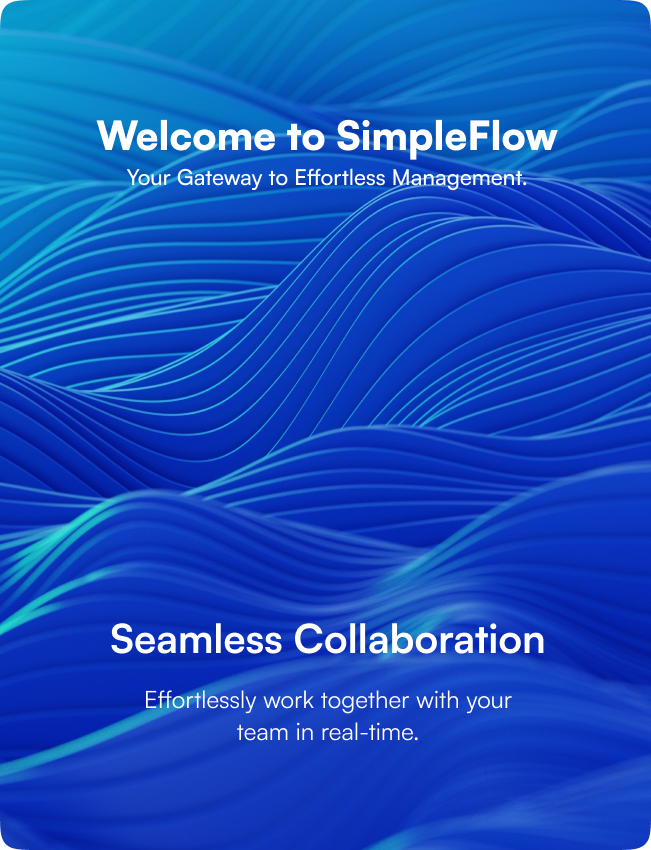
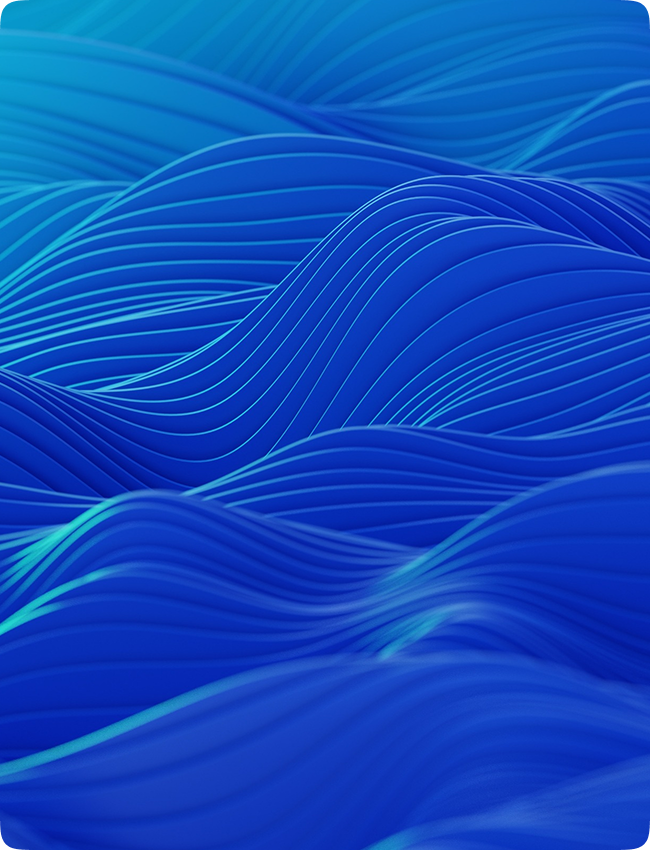
login register page design complete

diff --git a/assets/templates/basic/css/new-custom.css b/assets/templates/basic/css/new-custom.css
@@ -216,7 +216,7 @@ a {
   align-items: center;
   flex-wrap: nowrap;
   gap: 20px;
-  animation: SlideRightToLeft  35s linear 0s infinite;
+  animation: SlideRightToLeft 35s linear 0s infinite;
 }
 
 .job-card {
@@ -882,10 +882,12 @@ a {
   0% {
     transform: translateX(0%);
   }
+
   100% {
     transform: translateX(-100%);
   }
 }
+
 /* Animation name   */
 
 /* Footer section start  */
@@ -909,28 +911,65 @@ a {
   background-size: cover;
   background-repeat: no-repeat;
 }
+
 .auth-slides {
   overflow: hidden;
 }
+
 .auth-slide {
   position: relative;
 }
+
+.swiper-slide img {
+  border-radius: 20px;
+}
+
+.swiper-slide .overlay {
+  padding: 30px;
+  position: absolute;
+  inset: 0;
+  border-radius: 20px;
+  background: linear-gradient(180deg, rgba(70, 95, 241, 0.37) 0%, #FE7000 100%);
+  display: flex;
+  flex-direction: column;
+  justify-content: space-between;
+}
+.auth-slides .overlay-top {
+  padding-top: 75px;
+}
+.auth-slides .overlay-bottom {
+  padding-bottom: 75px;
+}
+.auth-slides .overlay  :is(h2,p) {
+  color: var(--white);
+}
+.auth-slides .overlay h2 {
+  font-size: 30px;
+  font-weight: 700;
+}
+.auth-slides .overlay p {
+  font-size: 16px;
+  font-weight: 500;
+}
+
 .auth-slides .swiper-pagination {
   margin-top: 0px;
   position: absolute !important;
   bottom: 50px;
 }
+
 .auth-logo {
   width: 170px;
   height: auto;
 }
+
 .auth-tabs .nav {
   background-color: #ECF0FF;
   padding: 10px;
   display: flex;
-    justify-content: center;
-    align-items: center;
-    border-radius: 10px;
+  justify-content: center;
+  align-items: center;
+  border-radius: 10px;
 }
 
 .auth-tabs .nav-item .nav-link {
@@ -938,12 +977,14 @@ a {
   color: var(--text-color);
   font-family: var(--balooda);
   font-size: 16px;
-  font-weight:600;
+  font-weight: 600;
 }
+
 .auth-tabs .nav-link.active {
   color: var(--white);
   background-color: var(--blue);
 }
+
 .auth-tab-content .form--label {
   font-size: 15px;
   color: var(--dark);
@@ -952,9 +993,10 @@ a {
   margin-bottom: 8px;
   display: block;
 }
+
 .auth-tab-content .form--control {
   color: var(--text-color);
-border-radius: 8px;
+  border-radius: 8px;
   border: 1px solid rgba(70, 95, 241, 0.40);
   background: var(--white) !important;
   box-shadow: 0px 4px 8px 0px rgba(70, 95, 241, 0.10);
@@ -964,9 +1006,11 @@ border-radius: 8px;
   font-size: 16px;
   width: 100%;
 }
+
 .auth-tab-content .form--control:focus {
   color: var(--text-color);
 }
+
 .auth-tab-content .form-label {
   font-family: var(--noto);
   font-size: 16px;
@@ -974,10 +1018,12 @@ border-radius: 8px;
   color: var(--text-color);
   margin-bottom: 2px;
 }
+
 .auth-tab-content .form-label span {
   color: #E45270;
   font-size: 20px;
 }
+
 .auth-tab-content .forgot-pass a {
   color: #5E6670;
   font-family: var(--noto);
@@ -985,9 +1031,11 @@ border-radius: 8px;
   font-weight: 400;
   text-decoration-line: underline;
 }
+
 .auth-tab-content .forgot-pass a:hover {
   color: var(--orange);
 }
+
 .auth-tab-content .submit-btn {
   padding: 10px 20px;
   color: var(--white);
@@ -998,17 +1046,20 @@ border-radius: 8px;
   border-radius: 8px;
   margin-top: 10px;
 }
+
 .auth-tab-content .pass-require span {
   font-size: 14px;
   color: var(--dark);
   font-weight: 400;
 }
+
 .auth-tab-content .social-auth a {
   border-radius: 8px;
-    border: 1px solid rgba(70, 95, 241, 0.40);
-    background: var(--white);
-    padding: 10px 20px;
+  border: 1px solid rgba(70, 95, 241, 0.40);
+  background: var(--white);
+  padding: 10px 20px;
 }
+
 .auth-tab-content .or {
   height: 1px;
   width: 250px;
@@ -1017,11 +1068,12 @@ border-radius: 8px;
   position: relative;
   margin: 25px auto;
 }
+
 .auth-tab-content .or span {
   position: absolute;
   left: 50%;
   top: 50%;
-  transform: translate(-50%,-50%);
+  transform: translate(-50%, -50%);
   padding: 5px 5px 3px;
   font-size: 16px;
   line-height: 15px;
@@ -1030,6 +1082,7 @@ border-radius: 8px;
   color: #000;
   text-transform: uppercase;
 }
+
 .auth-bottom p {
   font-size: 14px;
   color: var(--text-color);
@@ -1081,9 +1134,16 @@ border-radius: 8px;
     font-size: 25px;
     line-height: 30px;
   }
-    .header-section .navbar .logo-area {
-      width: auto;
+
+  .header-section .navbar .logo-area {
+    width: auto;
+  }
+    .swiper-slide .overlay {
+      padding: 30px;
     }
+        .auth-slides .overlay h2 {
+          font-size: 25px;
+        }
 }
 
 @media screen and (max-width: 767px) {
@@ -1135,8 +1195,9 @@ border-radius: 8px;
     margin-top: 70px;
     border-radius: 20px;
   }
-    .faqs-section .s-middle::after,
-        .faqs-section .s-middle::before {
-          display: none;
-        }
+
+  .faqs-section .s-middle::after,
+  .faqs-section .s-middle::before {
+    display: none;
+  }
 }

diff --git a/core/resources/views/templates/basic/user/auth/register.blade.php b/core/resources/views/templates/basic/user/auth/register.blade.php
@@ -6,35 +6,72 @@
 @endphp
 
 @section('content')
-  <section class="auth-section d-flex align-items-center justify-content-center">
+  <section class="auth-section d-flex align-items-center justify-content-center py-4 py-lg-0">
     <div class="container">
-      <div class="row align-items-center">
-        <div class="col-md-6">
+      <div class="row flex-column-reverse flex-lg-row align-items-center g-5">
+        <div class="col-lg-6">
           <div class="auth-slides h-100">
             <div class="swiper auth-slide h-100">
               <div class="swiper-wrapper h-100">
                 <div class="swiper-slide h-100">
                  <img src="../assets/images/img/slide1.png" alt="Slide Image">
-                </div>
+                 <div class="overlay">
+                  <div class="overlay-top">
+                    <h2 class="mb-0 text-center">Welcome to SimpleFlow</h2>
+                    <p class="text-center">Your Gateway to Effortless Management.</p>
+                  </div>
+                  <div class="overlay-bottom">
+                    <h2 class="mb-0 text-center">Seamless Collaboration </h2>
+                    <p class="text-center">Effortlessly work together with your team in real-time.</p>
+                  </div>
+                 </div>
+                </div>                
                 <div class="swiper-slide h-100">
-                 <img src="../assets/images/img/slide1.png" alt="">
-                </div>
+                 <img src="../assets/images/img/slide1.png" alt="Slide Image">
+                 <div class="overlay">
+                  <div class="overlay-top">
+                    <h2 class="mb-0 text-center">Welcome to SimpleFlow</h2>
+                    <p class="text-center">Your Gateway to Effortless Management.</p>
+                  </div>
+                  <div class="overlay-bottom">
+                    <h2 class="mb-0 text-center">Seamless Collaboration </h2>
+                    <p class="text-center">Effortlessly work together with your team in real-time.</p>
+                  </div>
+                 </div>
+                </div>                
                 <div class="swiper-slide h-100">
-                 <img src="../assets/images/img/slide1.png" alt="">
-                </div>
+                 <img src="../assets/images/img/slide1.png" alt="Slide Image">
+                 <div class="overlay">
+                  <div class="overlay-top">
+                    <h2 class="mb-0 text-center">Welcome to SimpleFlow</h2>
+                    <p class="text-center">Your Gateway to Effortless Management.</p>
+                  </div>
+                  <div class="overlay-bottom">
+                    <h2 class="mb-0 text-center">Seamless Collaboration </h2>
+                    <p class="text-center">Effortlessly work together with your team in real-time.</p>
+                  </div>
+                 </div>
+                </div>                
                 <div class="swiper-slide h-100">
-                 <img src="../assets/images/img/slide1.png" alt="">
-                </div>
-                <div class="swiper-slide h-100">
-                 <img src="../assets/images/img/slide1.png" alt="">
-                </div>
+                 <img src="../assets/images/img/slide1.png" alt="Slide Image">
+                 <div class="overlay">
+                  <div class="overlay-top">
+                    <h2 class="mb-0 text-center">Welcome to SimpleFlow</h2>
+                    <p class="text-center">Your Gateway to Effortless Management.</p>
+                  </div>
+                  <div class="overlay-bottom">
+                    <h2 class="mb-0 text-center">Seamless Collaboration </h2>
+                    <p class="text-center">Effortlessly work together with your team in real-time.</p>
+                  </div>
+                 </div>
+                </div>                
               </div>
               <div class="swiper-pagination"></div>
             </div>
 
           </div>
         </div>
-        <div class="col-md-6">
+        <div class="col-lg-6 mb-4 mb-lg-0">
           <div class="auth-tabs d-flex flex-column gap-3">
             <img class="auth-logo" src="{{ siteLogo() }}" alt="Logo">
             <ul class="nav nav-pills mb-3" id="pills-tab" role="tablist">
